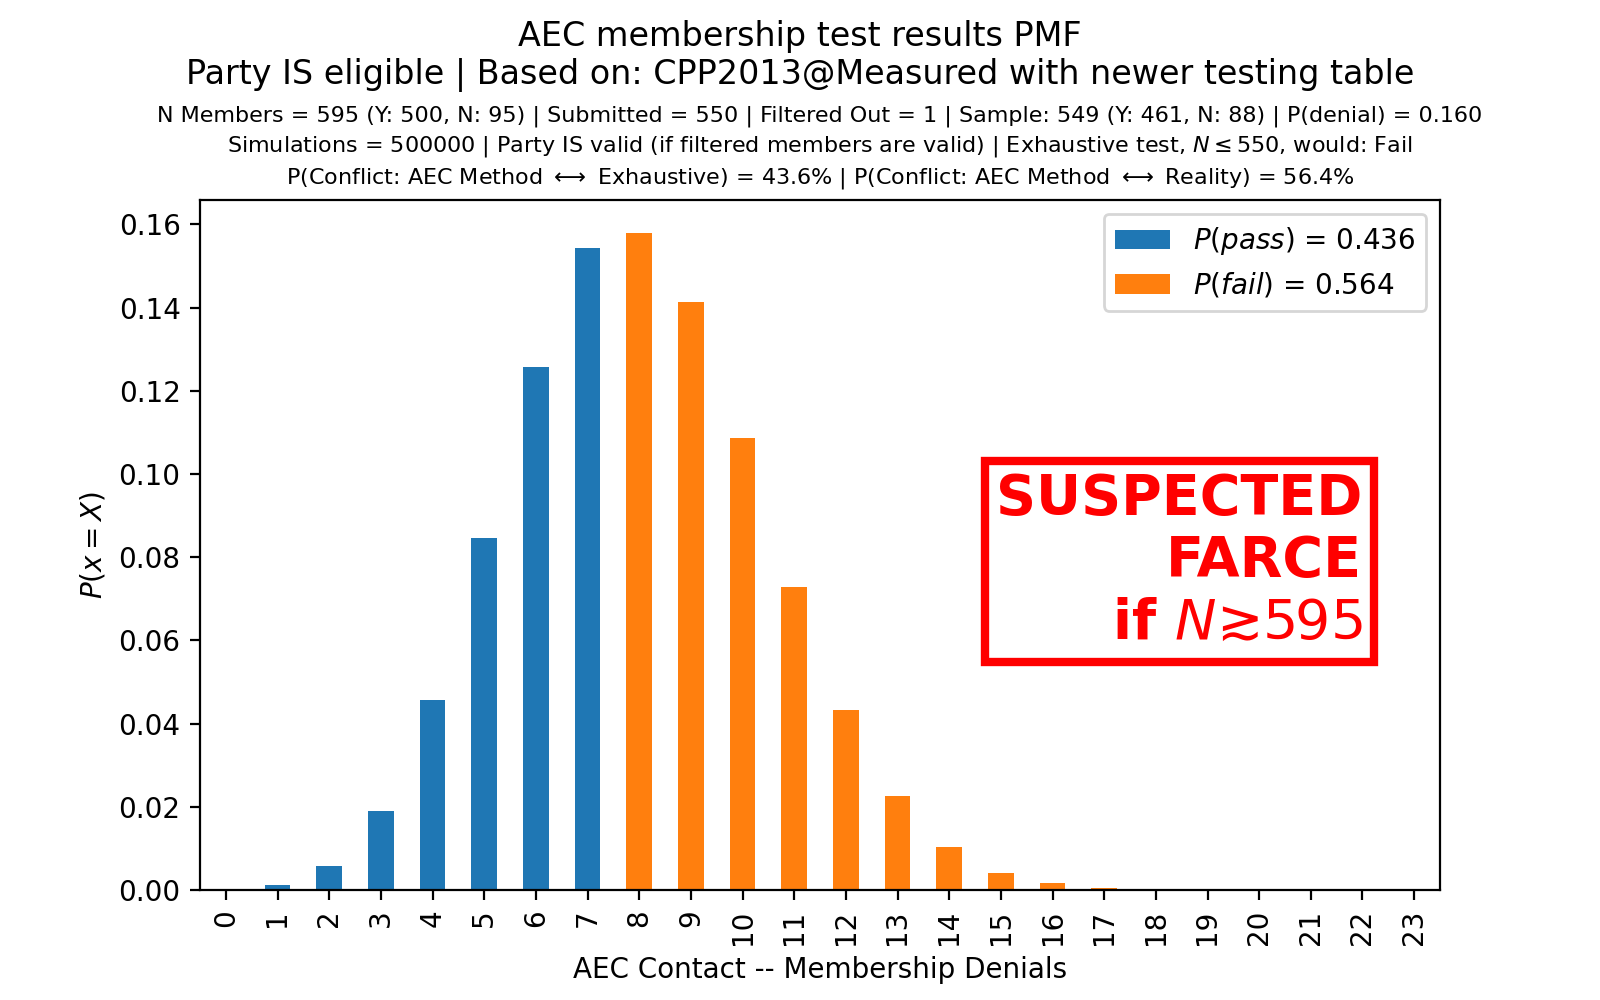
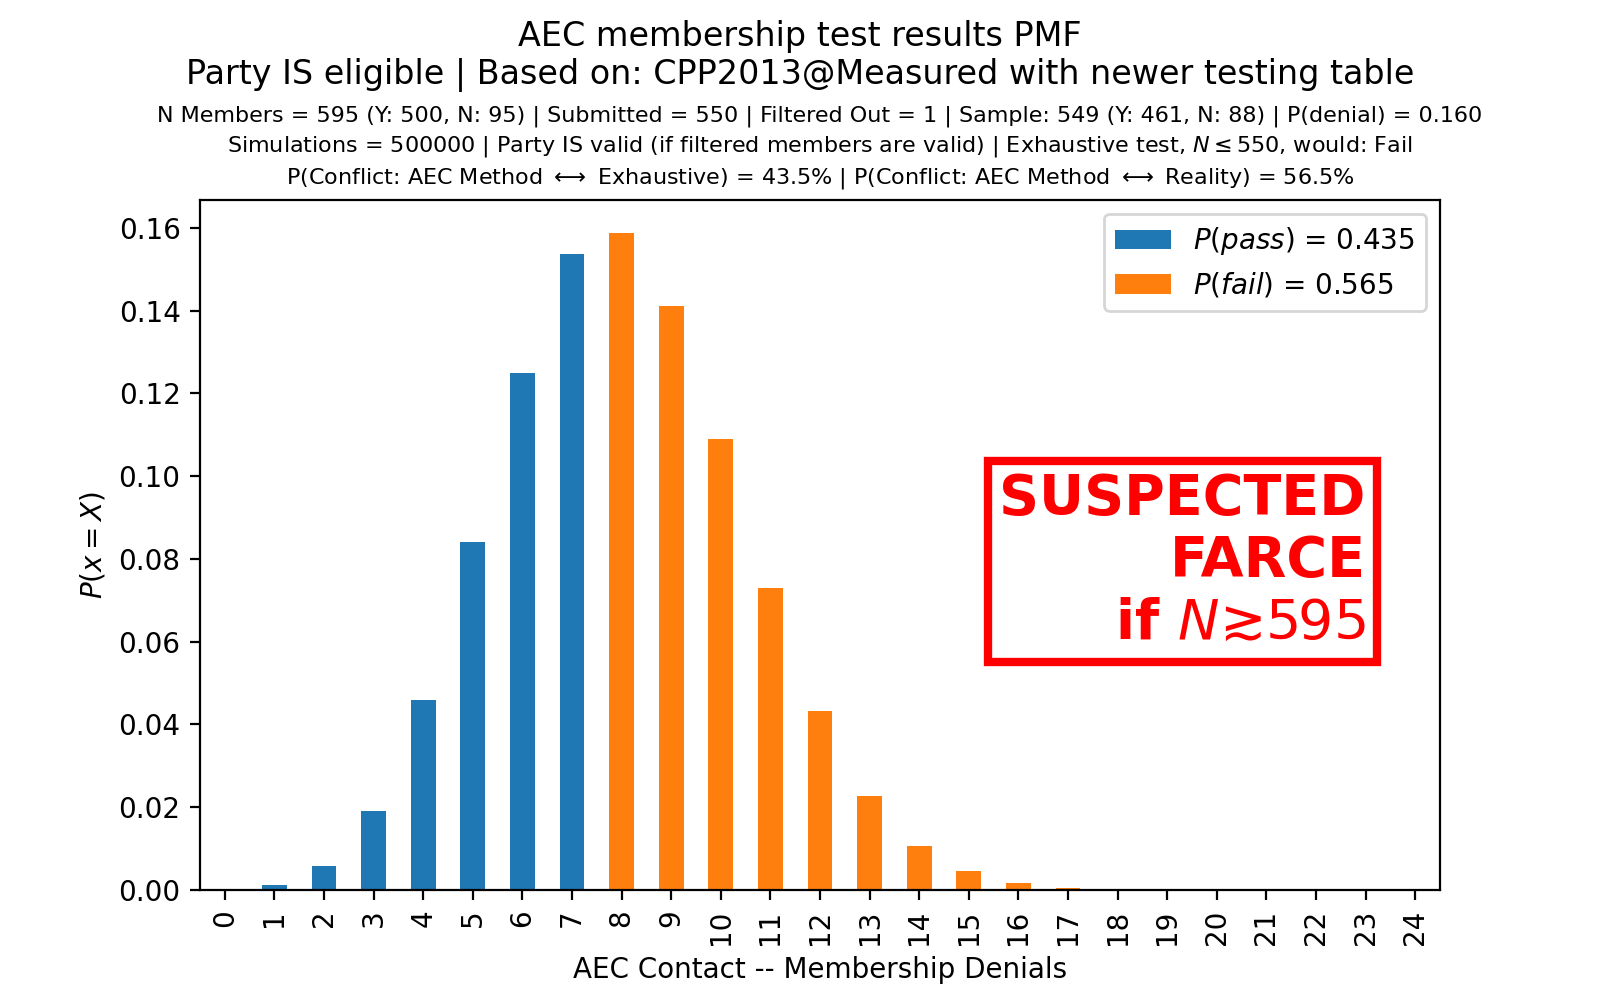
well, I think we can conclude that this shit's fucked.

diff --git a/main.py b/main.py
@@ -78,7 +78,7 @@ assert list(filter_out_n_members(lambda x: x%2 == 0, range(5), 3)) == [1,3]
 assert list(filter_out_n_members(lambda x: x%2 == 0, range(5), 4)) == [1,3]
 
 
-AEC_TESTING_TABLE = [
+AEC_TABLE_2021 = [
     (1500, 18, 0),
     (1506, 27, 1),
     (1523, 33, 2),
@@ -92,9 +92,12 @@ AEC_TESTING_TABLE = [
     (1651, 60, 9),  # we will subtract 1 later to calc an inclusive range
 ]
 
-# anomaly: https://www.aec.gov.au/Parties_and_Representatives/Party_Registration/Registration_Decisions/2017/sor-the-communists.pdf
-# -- 34 responses required, why would this table ever change? FOI
-OLD_AEC_TESTING_TABLE = [
+### ~~anomaly: https://www.aec.gov.au/Parties_and_Representatives/Party_Registration/Registration_Decisions/2017/sor-the-communists.pdf~~
+### ~~-- 34 responses required, why would this table ever change? FOI~~
+# https://web.archive.org/web/20200320074933/https://www.aec.gov.au/Parties_and_Representatives/Party_Registration/files/party-registration-guide.pdf
+# https://web.archive.org/web/20210409193623/https://aec.gov.au/Parties_and_Representatives/Party_Registration/guide/files/party-registration-guide.pdf
+# 2017 - 2020
+AEC_TABLE_2017 = [
     (500, 18, 0),
     (503, 26, 1),
     (511, 32, 2),  # this was 26 responses in 2017 -- sor-australian-affordable-housing-party.pdf
@@ -106,7 +109,47 @@ OLD_AEC_TESTING_TABLE = [
     (551, 50, 7),  # we subtract 1 later for upper bound
 ]
 
-EVEN_OLDER_AEC_TABLE = [
+# https://web.archive.org/web/20170521182536/http://www.aec.gov.au/Parties_and_Representatives/Party_Registration/files/party-registration-guide.pdf
+# same as 2020
+# AEC_TABLE_2017 = [
+#     (500, 18, 0),
+#     (503, 26, 1),
+#     (512, 30, 2),
+#     (521, 34, 3),
+#     (529, 38, 3),
+#     (537, 42, 5),
+#     (543, 46, 6),
+#     (548, 50, 7),
+#     (550, 50, 7),
+# ]
+
+# https://web.archive.org/web/20160314113418/http://aec.gov.au/Parties_and_Representatives/Party_Registration/files/party-registration-guide.pdf
+# same as 2014
+# AEC_TABLE_2016 = [
+#     (500, 18, 0),
+#     (503, 26, 1),
+#     (512, 30, 2),
+#     (521, 34, 3),
+#     (529, 38, 3),
+#     (537, 42, 5),
+#     (543, 46, 6),
+#     (548, 50, 7),
+#     (550, 50, 7),
+# ]
+
+AEC_TABLE_2012 = [
+    (500, 18, 0),
+    (503, 26, 1),
+    (512, 30, 2),
+    (521, 34, 3),
+    (529, 38, 3),
+    (537, 42, 5),
+    (543, 46, 6),
+    (548, 50, 7),
+    (550, 50, 7),
+]
+
+AEC_TABLE_2011 = [
     (500, 18, 0),
     (505, 21, 1),
     (515, 26, 2),
@@ -122,31 +165,35 @@ EVEN_OLDER_AEC_TABLE = [
 def testing_table_to_ranges(testing_table):
     return list((lower, upper - 1, n, x) for ((lower, n, x), (upper, _, _)) in zip(testing_table, testing_table[1:]))
 
-# AEC_TESTING_RANGES = list((lower, upper - 1, n, x) for ((lower, n, x), (upper, _, _)) in zip(AEC_TESTING_TABLE, AEC_TESTING_TABLE[1:]))
-# OLD_AEC_TESTING_RANGES = list((lower, upper - 1, n, x) for ((lower, n, x), (upper, _, _)) in zip(OLD_AEC_TESTING_TABLE, OLD_AEC_TESTING_TABLE[1:]))
-# EVEN_OLDER_AEC_TABLE = list((lower, upper - 1, n, x) for ((lower, n, x), (upper, _, _)) in zip(EVEN_OLDER_AEC_TABLE, EVEN_OLDER_AEC_TABLE[1:]))
-AEC_TESTING_RANGES = testing_table_to_ranges(AEC_TESTING_TABLE)
-OLD_AEC_TESTING_RANGES = testing_table_to_ranges(OLD_AEC_TESTING_TABLE)
-EVEN_OLDER_AEC_RANGES = testing_table_to_ranges(EVEN_OLDER_AEC_TABLE)
+# AEC_RANGE_2021 = list((lower, upper - 1, n, x) for ((lower, n, x), (upper, _, _)) in zip(AEC_TABLE_2021, AEC_TABLE_2021[1:]))
+# AEC_RANGE_2017 = list((lower, upper - 1, n, x) for ((lower, n, x), (upper, _, _)) in zip(AEC_TABLE_2017, AEC_TABLE_2017[1:]))
+# AEC_TABLE_2011 = list((lower, upper - 1, n, x) for ((lower, n, x), (upper, _, _)) in zip(AEC_TABLE_2011, AEC_TABLE_2011[1:]))
+AEC_RANGE_2021 = testing_table_to_ranges(AEC_TABLE_2021)
+AEC_RANGE_2017 = testing_table_to_ranges(AEC_TABLE_2017)
+AEC_RANGE_2012 = testing_table_to_ranges(AEC_TABLE_2012)
+AEC_RANGE_2011 = testing_table_to_ranges(AEC_TABLE_2011)
 
 
 class TestingStandard(Enum):
     SEPT2021 = 1
-    RECENT500 = 2
-    OLD500 = 3
+    C2017 = 2
+    C2012 = 3
+    C2011 = 4
 
 
 TESTING_RANGE_LOOKUP = {
-    TestingStandard.SEPT2021: AEC_TESTING_RANGES,
-    TestingStandard.RECENT500: OLD_AEC_TESTING_RANGES,
-    TestingStandard.OLD500: EVEN_OLDER_AEC_RANGES,
+    TestingStandard.SEPT2021: AEC_RANGE_2021,
+    TestingStandard.C2017: AEC_RANGE_2017,
+    TestingStandard.C2012: AEC_RANGE_2012,
+    TestingStandard.C2011: AEC_RANGE_2011,
 }
 
 
 TESTING_N_REQUIRED_LOOKUP = {
     TestingStandard.SEPT2021: 1500,
-    TestingStandard.RECENT500: 500,
-    TestingStandard.OLD500: 500,
+    TestingStandard.C2017: 500,
+    TestingStandard.C2012: 500,
+    TestingStandard.C2011: 500,
 }
 
 
@@ -492,8 +539,8 @@ def aec(n_trials, show, jobs, force, non_essential, only_flux):
         # https://aec.gov.au/Parties_and_Representatives/Party_Registration/Deregistered_parties/files/statement-of-reasons-child-protection-party-s137-deregistration.pdf
         # add bonus b/c they were at limit of 550
         # 2021
-        _run(RunSpec(550 * 91//80, 10/50, 550, 2, TestingStandard.RECENT500), party_name="CPP@Measured", farce_extra="SUSPECTED")
-        _run(RunSpec(550 * 91//80, 10/50, 550, 2, TestingStandard.RECENT500, True), party_name="CPP@Measured", farce_extra="SUSPECTED")
+        _run(RunSpec(550 * 91//80, 10/50, 550, 2, TestingStandard.C2017), party_name="CPP@Measured", farce_extra="SUSPECTED")
+        _run(RunSpec(550 * 91//80, 10/50, 550, 2, TestingStandard.C2017, True), party_name="CPP@Measured", farce_extra="SUSPECTED")
 
         # https://aec.gov.au/Parties_and_Representatives/Party_Registration/Deregistered_parties/files/statement-of-reasons-australian-workers-party-s-137-deregistration.pdf
         # ambiguous case b/c there were 41 duplicates but another list was provided. laws were changed between the two lists.
@@ -504,8 +551,8 @@ def aec(n_trials, show, jobs, force, non_essential, only_flux):
         # https://aec.gov.au/Parties_and_Representatives/Party_Registration/Deregistered_parties/files/statement-of-reasons-seniors-united-party-of-australia-s137-deregistration.pdf
         # add bonus for hitting limit
         # 2021
-        _run(RunSpec(629, 9/44, 550, 11, TestingStandard.RECENT500), party_name="SUP@Measured", farce_extra="SUSPECTED")
-        _run(RunSpec(629, 9/44, 550, 11, TestingStandard.RECENT500, True), party_name="SUP@Measured", farce_extra="SUSPECTED")
+        _run(RunSpec(629, 9/44, 550, 11, TestingStandard.C2017), party_name="SUP@Measured", farce_extra="SUSPECTED")
+        _run(RunSpec(629, 9/44, 550, 11, TestingStandard.C2017, True), party_name="SUP@Measured", farce_extra="SUSPECTED")
 
         # mb (but unlikely with so many denials): no free tax (https://www.aec.gov.au/Parties_and_Representatives/Party_Registration/Registration_Decisions/2019/statement-of-reasons-the-no-tax-free-electricity.com-refusal.pdf)
         # mb: https://www.aec.gov.au/Parties_and_Representatives/Party_Registration/Registration_Decisions/2019/statement-of-reasons-put-wa-first-party-signed-redacted.pdf
@@ -513,40 +560,40 @@ def aec(n_trials, show, jobs, force, non_essential, only_flux):
         # https://www.aec.gov.au/Parties_and_Representatives/Party_Registration/Registration_Decisions/2018/2018-voter-rights-party-statement-of-reasons.pdf
         # this one is signed by Kalisch...
         # VRP possible farce but has 35% extra members
-        _run(RunSpec(732, 13/41, 550, 22, TestingStandard.RECENT500), party_name="VRP@Measured", farce_extra="POSSIBLE")
-        _run(RunSpec(732, 13/41, 550, 22, TestingStandard.RECENT500, True), party_name="VRP@Measured", farce_extra="POSSIBLE")
+        _run(RunSpec(732, 13/41, 550, 22, TestingStandard.C2017), party_name="VRP@Measured", farce_extra="POSSIBLE")
+        _run(RunSpec(732, 13/41, 550, 22, TestingStandard.C2017, True), party_name="VRP@Measured", farce_extra="POSSIBLE")
 
         # https://www.aec.gov.au/Parties_and_Representatives/Party_Registration/Registration_Decisions/2017/sor-australian-affordable-housing-party.pdf
         # possible farce initially
         # note: table of max denials might have been different
         # final list between 511 and 503? avg 507
-        _run(RunSpec(550, 2/26, 550, 550-507, TestingStandard.RECENT500), party_name="AAHP@Measured (Hypothetical)", farce_extra="POSSIBLE")
-        _run(RunSpec(550, 2/26, 550, 550-507, TestingStandard.RECENT500, True), party_name="AAHP@Measured (Hypothetical)", farce_extra="POSSIBLE")
-        _run(RunSpec(542, 2/26, 542, 542-507, TestingStandard.RECENT500), party_name="AAHP@Measured (Hypothetical)", farce_extra="POSSIBLE")
-        _run(RunSpec(542, 2/26, 542, 542-507, TestingStandard.RECENT500, True), party_name="AAHP@Measured (Hypothetical)", farce_extra="POSSIBLE")
+        _run(RunSpec(550, 2/26, 550, 550-507, TestingStandard.C2017), party_name="AAHP@Measured (Hypothetical)", farce_extra="POSSIBLE")
+        _run(RunSpec(550, 2/26, 550, 550-507, TestingStandard.C2017, True), party_name="AAHP@Measured (Hypothetical)", farce_extra="POSSIBLE")
+        _run(RunSpec(542, 2/26, 542, 542-507, TestingStandard.C2017), party_name="AAHP@Measured (Hypothetical)", farce_extra="POSSIBLE")
+        _run(RunSpec(542, 2/26, 542, 542-507, TestingStandard.C2017, True), party_name="AAHP@Measured (Hypothetical)", farce_extra="POSSIBLE")
 
         # https://www.aec.gov.au/Parties_and_Representatives/Party_Registration/Registration_Decisions/2017/sor-the-communists.pdf
         # note: unsure of acceptable number of denials
-        _run(RunSpec(708, 10/34, 550, 550-515, TestingStandard.RECENT500), party_name="Commies@Measured (Hypothetical)", farce_extra="POSSIBLE")
-        _run(RunSpec(708, 10/34, 550, 550-515, TestingStandard.RECENT500, True), party_name="Commies@Measured (Hypothetical)", farce_extra="POSSIBLE")
+        _run(RunSpec(708, 10/34, 550, 550-515, TestingStandard.C2017), party_name="Commies@Measured (Hypothetical)", farce_extra="POSSIBLE")
+        _run(RunSpec(708, 10/34, 550, 550-515, TestingStandard.C2017, True), party_name="Commies@Measured (Hypothetical)", farce_extra="POSSIBLE")
 
         # https://www.aec.gov.au/Parties_and_Representatives/party_registration/Registration_Decisions/2013/5204.htm
         # cheaper petrol party
-        _run(RunSpec(595, 8/50, 550, 1, TestingStandard.OLD500), party_name="CPP2013@Measured", farce_extra="SUSPECTED")
-        _run(RunSpec(595, 8/50, 550, 1, TestingStandard.RECENT500), party_name="CPP2013@Measured with newer testing table", farce_extra="SUSPECTED")
-        _run(RunSpec(595, 8/50, 550, 1, TestingStandard.OLD500, True), party_name="CPP2013@Measured", farce_extra="SUSPECTED")
+        _run(RunSpec(595, 8/50, 550, 1, TestingStandard.C2012), party_name="CPP2013@Measured", farce_extra="SUSPECTED")
+        _run(RunSpec(595, 8/50, 550, 1, TestingStandard.C2017), party_name="CPP2013@Measured with newer testing table", farce_extra="SUSPECTED")
+        _run(RunSpec(595, 8/50, 550, 1, TestingStandard.C2012, True), party_name="CPP2013@Measured", farce_extra="SUSPECTED")
 
         # https://www.aec.gov.au/Parties_and_Representatives/party_registration/Registration_Decisions/2010/3976.htm
         # seniors action movement
-        _run(RunSpec(578, 5/37, 550, 15, TestingStandard.OLD500), party_name="SAM@Measured", farce_extra="SUSPECTED")
-        _run(RunSpec(578, 5/37, 550, 15, TestingStandard.OLD500, True), party_name="SAM@Measured", farce_extra="SUSPECTED")
+        _run(RunSpec(578, 5/37, 550, 15, TestingStandard.C2011), party_name="SAM@Measured", farce_extra="SUSPECTED")
+        _run(RunSpec(578, 5/37, 550, 15, TestingStandard.C2011, True), party_name="SAM@Measured", farce_extra="SUSPECTED")
 
 
         # check 98% confidence of not registering a party with only 400 members
         # note: seems to pan out
-        _run(RunSpec(550, 150/550, 550, 0, TestingStandard.RECENT500), party_name="400of550")
-        _run(RunSpec(550, 150/550, 550, 50, TestingStandard.RECENT500, filter_any=True), party_name="400of550+F50")
-        _run(RunSpec(500, 100/500, 500, 0, TestingStandard.RECENT500), party_name="400of500")
+        _run(RunSpec(550, 150/550, 550, 0, TestingStandard.C2017), party_name="400of550")
+        _run(RunSpec(550, 150/550, 550, 50, TestingStandard.C2017, filter_any=True), party_name="400of550+F50")
+        _run(RunSpec(500, 100/500, 500, 0, TestingStandard.C2017), party_name="400of500")
         _run(RunSpec(1650, 450/1650, 1650, 0), party_name="1200of1650")
         _run(RunSpec(1650, 450/1650, 1650, 150, filter_any=True), party_name="1200of1650+F150")
         _run(RunSpec(1500, 300/1500, 1500, 0), party_name="1200of1500")

diff --git a/README.md b/README.md
@@ -8,7 +8,7 @@
     <em>Max Kaye</em>
     <!-- (Philosopher) -->
     <br>
-    2022-02-15 -- 2022-02-20
+    2022-02-15 to 2022-02-20
 </p>
 
 In Australia, to register a political party you need a minimum number of members.
@@ -32,7 +32,7 @@ The Flux Party's recent 2021 membership test is analysed in multiple ways:
 
 * **Measured case**: a 17% membership denial rate -- as measured by the AEC during this membership test.
 * **More extreme -- but realistic -- cases**: These are more extreme cases than the measured case, but it is an assumption of *all* cases that the party is eligible under the Electoral Act.
-* **Threshold case**: the assumption that 9.09% of any membership list submitted will result in membership denials. I *suspect* this is what is used for calculating the maximum number of denials for the AEC's table (given [advertised confidences](https://web.archive.org/web/20120511194720/http://www.aec.gov.au/Parties_and_Representatives/party_registration/Registration_Decisions/registration-tests.htm)).
+* **Threshold case**: the assumption that 9.09% of any membership list submitted will result in membership denials. I *suspect* this is an AEC assumption used for calculating the maximum number of denials for [the AEC's table (given their advertised confidences)](https://web.archive.org/web/20120511194720/http://www.aec.gov.au/Parties_and_Representatives/party_registration/Registration_Decisions/registration-tests.htm).
 
 Experimental evidence shows that the *measured* confidence of The Flux Party's 2021 membership test was **just 28.3%**. This is despite *the experimental assumption* that Flux has more than the legislatively required number of members.
 
@@ -40,9 +40,11 @@ Experimental evidence shows that the AEC's confidence of the *threshold* case wa
 
 **Experimental evidence proves that the AEC's claim** that their membership tests are conducted to a confidence of 90% **is false**. In actual fact, for a party that is capable of providing a list of 1,650 members wherein exactly 1,500 members will not deny membership (and 150 will): **the worst-case confidence of the AEC's membership test is just 15.1%, indicating a false negative rate of 84.9%.**
 
-In other cases, where a party is capable of providing 1,500 members that will not deny membership (with no limit on the number of members that will deny membership), **the lower-bound on the confidence of the AEC's method is 0%.**
+In other cases, where a party is capable of providing 1,500 members that will not deny membership (with no limit on the number of members that will deny membership), **the lower-bound on the confidence of the AEC's method is 0%.** That is: it fails 100% of the time for certain valid parties.
 
-*Note: equivalent calculated values given in this document (including graphs) are assumed to have a combined, codependent error of ±0.3 percentage points (i.e., as values, they differ by 0.003 at most) -- e.g., a graph might say the the false negative rate is 11.0%, but the accompanying text says 10.8%. This is taken to be negligible and a non-critical error.*
+This is not a theoretical problem. It has been happening and continues to happen. The AEC has thus compromised the integrity of our political process. The ABS has been complicit. Political elites have exploited this.
+
+*Note: equivalent calculated values in this document (including graphs) are assumed to have a combined, codependent error of ±0.3 percentage points (i.e., as values, they differ by 0.003 at most). e.g., a graph might say the the false negative rate is 11.0%, but the accompanying text says 10.8%. This is taken to be negligible and a non-critical error.*
 
 <!-- *Disclosure and context: My roles in The Flux Party (Flux) are: a founder, the deputy leader, the secretary, and the deputy registered officer.* -->
 
@@ -95,7 +97,7 @@ FOI:
 - all AEC documents and internal communication regarding concerns about limiting the size of membership lists for the purpose of membership testing.
 -->
 
-* [AEC's Notice to Flux (with results)](https://xertrov.github.io/aec-membership-test-simulator/docs/BDLPN0-aec-flux-jan-13_unencrypted.pdf)
+* [AEC's Notice to Flux (with test results)](https://xertrov.github.io/aec-membership-test-simulator/docs/BDLPN0-aec-flux-jan-13_unencrypted.pdf)
 * [Our Response](https://xertrov.github.io/aec-membership-test-simulator/docs/Response-to-AEC-rego-20220213.pdf)
 
 From the AEC's notice (note that the AEC **refuses** membership lists with more than 1650 members):
@@ -131,8 +133,9 @@ In this document and the associated code and graphs: a *farce* is defined as any
 
 The code associated with this document produces statistical graphs (of the Probability Mass Function, specifically) based on 500,000 simulations of the AEC's method.
 
-For each simulation, the number of failures is recorded as the output. Subsequently, these results are normalized to give the probability of X failures for the given input parameters. These probabilities are then graphed, with the x-axis showing the number of failures, and the y-axis showing `P(x = X)` -- i.e., the probability of a membership test having a certain number of failures.
-As the AEC has limits on the number of membership denials based on the reduced membership list, the bars in these PMFs are colored blue or orange to indicate a pass or a failure. In cases where the party *does* meet legislative requirements, the blue bars (`P(success)`) should *always* sum to `> 0.9`. If `P(success) < 0.5`, the case is deemed a *farce* and marked as such.
+For each simulation, the number of failures is recorded as the output. Subsequently, these results are normalized to give the probability of X failures for the given input parameters.
+These probabilities are then graphed, with the x-axis showing the number of failures, and the y-axis showing `P(x = X)` -- i.e., the probability of a membership test having a certain number of failures (membership denials).
+As the AEC has limits on the acceptable number of membership denials based on the reduced membership list, the bars in these PMFs are colored blue or orange to indicate a pass or a failure. In cases where the party *does* meet legislative requirements, the blue bars (`P(success)`) should *always* sum to `> 0.9`. If `P(success) < 0.5`, the case is deemed a *farce* and marked as such.
 
 The simulation is initialized with a membership list -- a list of N members where each member has a `failure_rate` chance (e.g., 0.0909) of responding "No" (i.e., a membership denial).
 
@@ -605,6 +608,88 @@ It is *irresponsible* of the AEC to wilfully turn a blind eye to criticisms of t
 This is false, as proven by this document.
 
 -->
+
+## Appendix: AEC Membership Testing Tables
+
+Note: the first column of these tables ("Members lodged", "Eligible membership") is the reduced membership list after filtering out e.g., duplicates, members supporting the registration of other parties, deceased members, etc.
+
+It is ["AEC Policy"](https://web.archive.org/web/20140220005415/http://aec.gov.au/Parties_and_Representatives/Party_Registration/Registration_Decisions/registration-tests.htm) that lists are no more than 1.1x the legislative limit (e.g., a maximum of 550 prior to September 2021, and 1650 after September 2021).
+
+### September 2021 to February 2022
+
+Source: Page 24 of <https://web.archive.org/web/20220206003633/https://www.aec.gov.au/Parties_and_Representatives/Party_Registration/guide/files/party-registration-guide.pdf>
+
+| Members lodged | Random sample size | Maximum denials to pass |
+|---|---|---|
+| 1,500 | 18 | 0 |
+| 1,506 | 27 | 1 |
+| 1,523 | 33 | 2 |
+| 1,543 | 38 | 3 |
+| 1,562 | 42 | 4 |
+| 1,582 | 46 | 5 |
+| 1,599 | 50 | 6 |
+| 1,616 | 53 | 7 |
+| 1,633 | 57 | 8 |
+| 1,647 | 60 | 9 |
+| 1,650 | 60 | 9 |
+
+### Circa 2017 to September 2021
+
+Sources:
+* Page 26 of <https://web.archive.org/web/20210409193623/https://aec.gov.au/Parties_and_Representatives/Party_Registration/guide/files/party-registration-guide.pdf>
+* <https://web.archive.org/web/20200320074933/https://www.aec.gov.au/Parties_and_Representatives/Party_Registration/files/party-registration-guide.pdf>
+
+
+| Members lodged | Random Sample | Max Denials to Pass |
+|---|---|---|
+| 500 | 18 | 0 |
+| 503 | 26 | 1 |
+| 511 | 32 | 2 |
+| 519 | 37 | 3 |
+| 526 | 41 | 4 |
+| 534 | 44 | 5 |
+| 541 | 47 | 6 |
+| 548 | 50 | 7 |
+| 550 | 50 | 7 |
+
+### Circa 2012 - 2016
+
+Sources:
+* Page 33 of <https://web.archive.org/web/20160314113418/http://aec.gov.au/Parties_and_Representatives/Party_Registration/files/party-registration-guide.pdf>
+* Page 32 of <https://web.archive.org/web/20140212032435/http://www.aec.gov.au/Parties_and_Representatives/Party_Registration/files/party-registration-guide.pdf>
+* <https://web.archive.org/web/20130208013723/http://aec.gov.au/Parties_and_Representatives/party_registration/guide/forms.htm#table>
+* <https://web.archive.org/web/20120425182026/http://www.aec.gov.au/Parties_and_Representatives/party_registration/guide/forms.htm>
+
+| Members lodged | Random Sample | Max Denials to Pass |
+|---|---|---|
+| 500 | 18 | 0 |
+| 503 | 26 | 1 |
+| 512 | 30 | 2 |
+| 521 | 34 | 3 |
+| 529 | 38 | 3 |
+| 537 | 42 | 5 |
+| 543 | 46 | 6 |
+| 548 | 50 | 7 |
+| 550 | 50 | 7 |
+
+### Circa 2011
+
+Source: <https://web.archive.org/web/20110220143705/http://www.aec.gov.au/Parties_and_Representatives/Party_Registration/Registration_Decisions/registration-tests.htm>
+
+> The table below is an extract from a table based on a formula provided by the Australian Bureau of Statistics, giving approximately a 10% risk of refusing a party which has 500 members and a 2% risk of registering a party with only 400 members.
+
+| Eligible membership | Size of random sample | Denials permitted | Confirmations required |
+|---|---|---|---|
+| 500 | 18 | 0 | 18 |
+| 505 | 21 | 1 | 20 |
+| 515 | 26 | 2 | 24 |
+| 520 | 29 | 2 | 27 |
+| 525 | 32 | 3 | 29 |
+| 530 | 35 | 4 | 31 |
+| 535 | 37 | 4 | 33 |
+| 540 | 40 | 5 | 35 |
+| 545 | 43 | 5 | 38 |
+| 550 | 47 | 6 | 41 |
 
 ## Appendix: Errors in Feb 13 response to AEC
 
